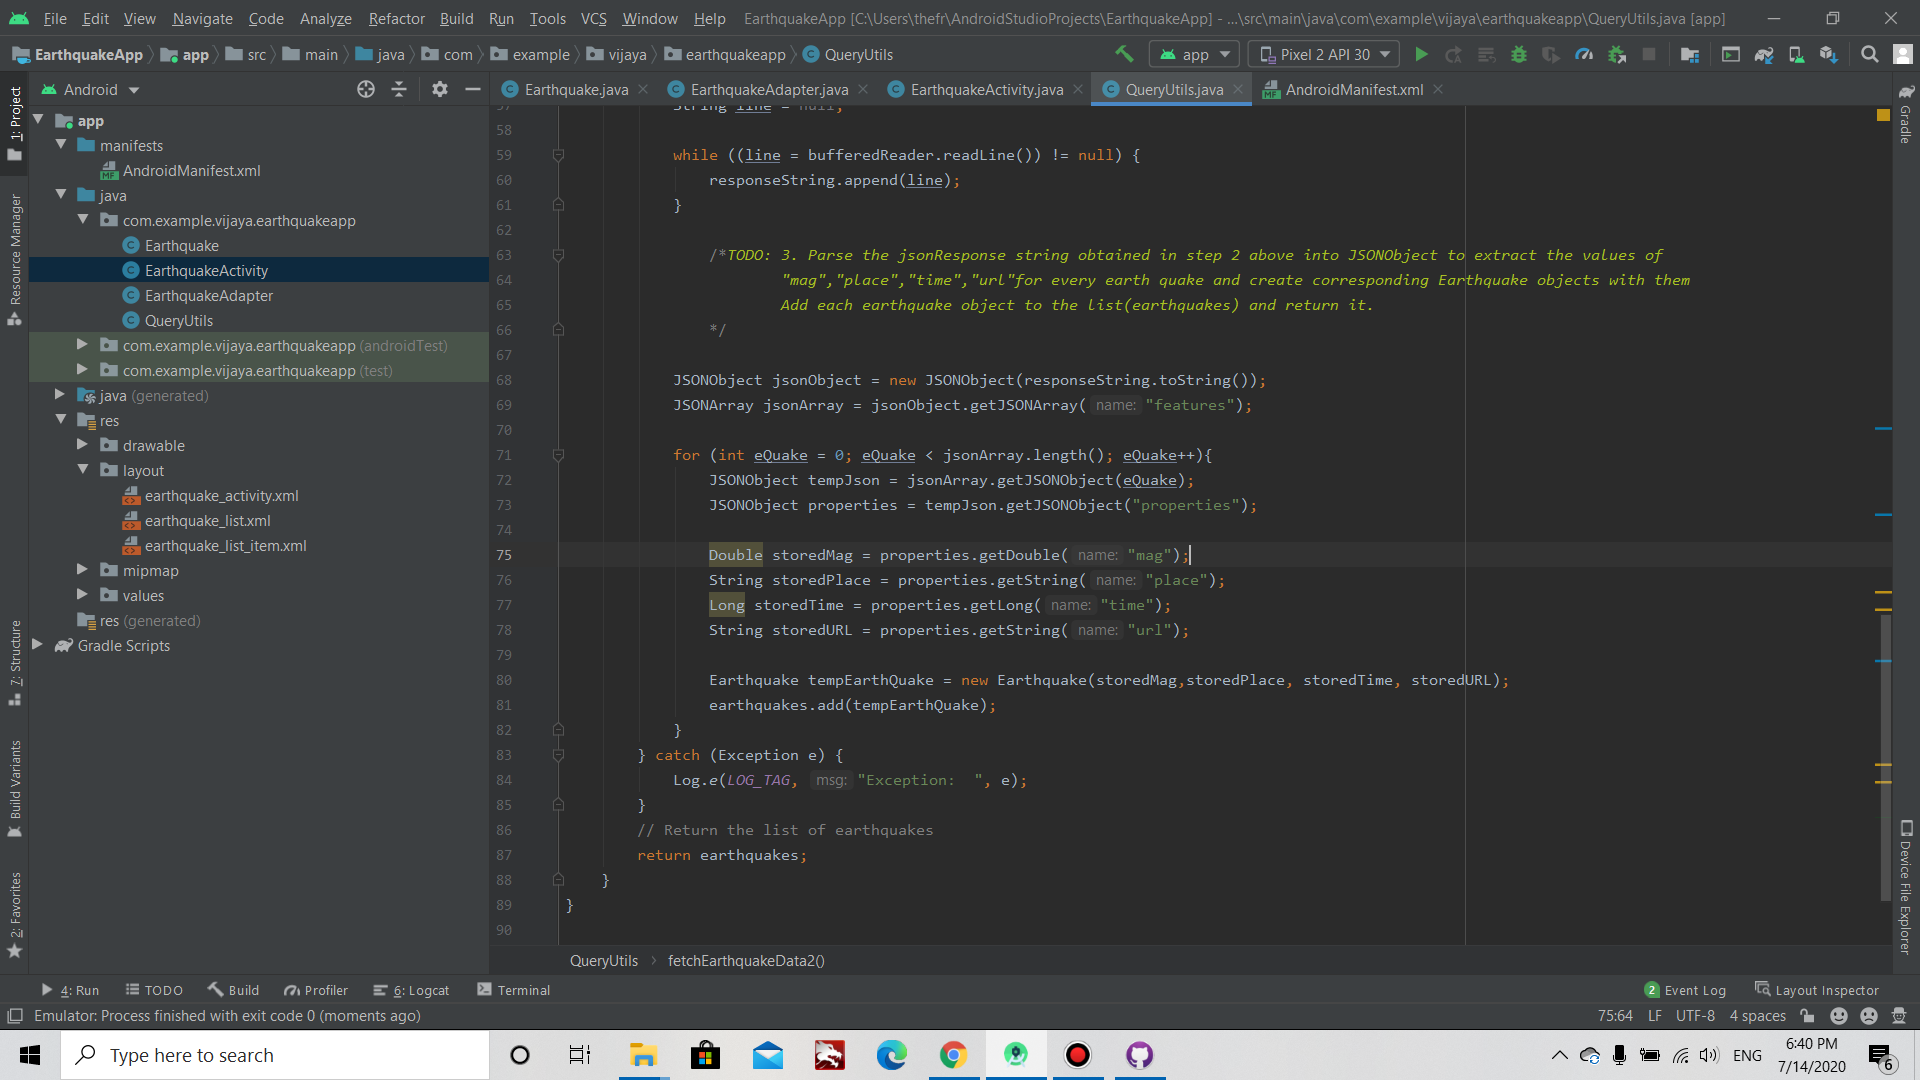
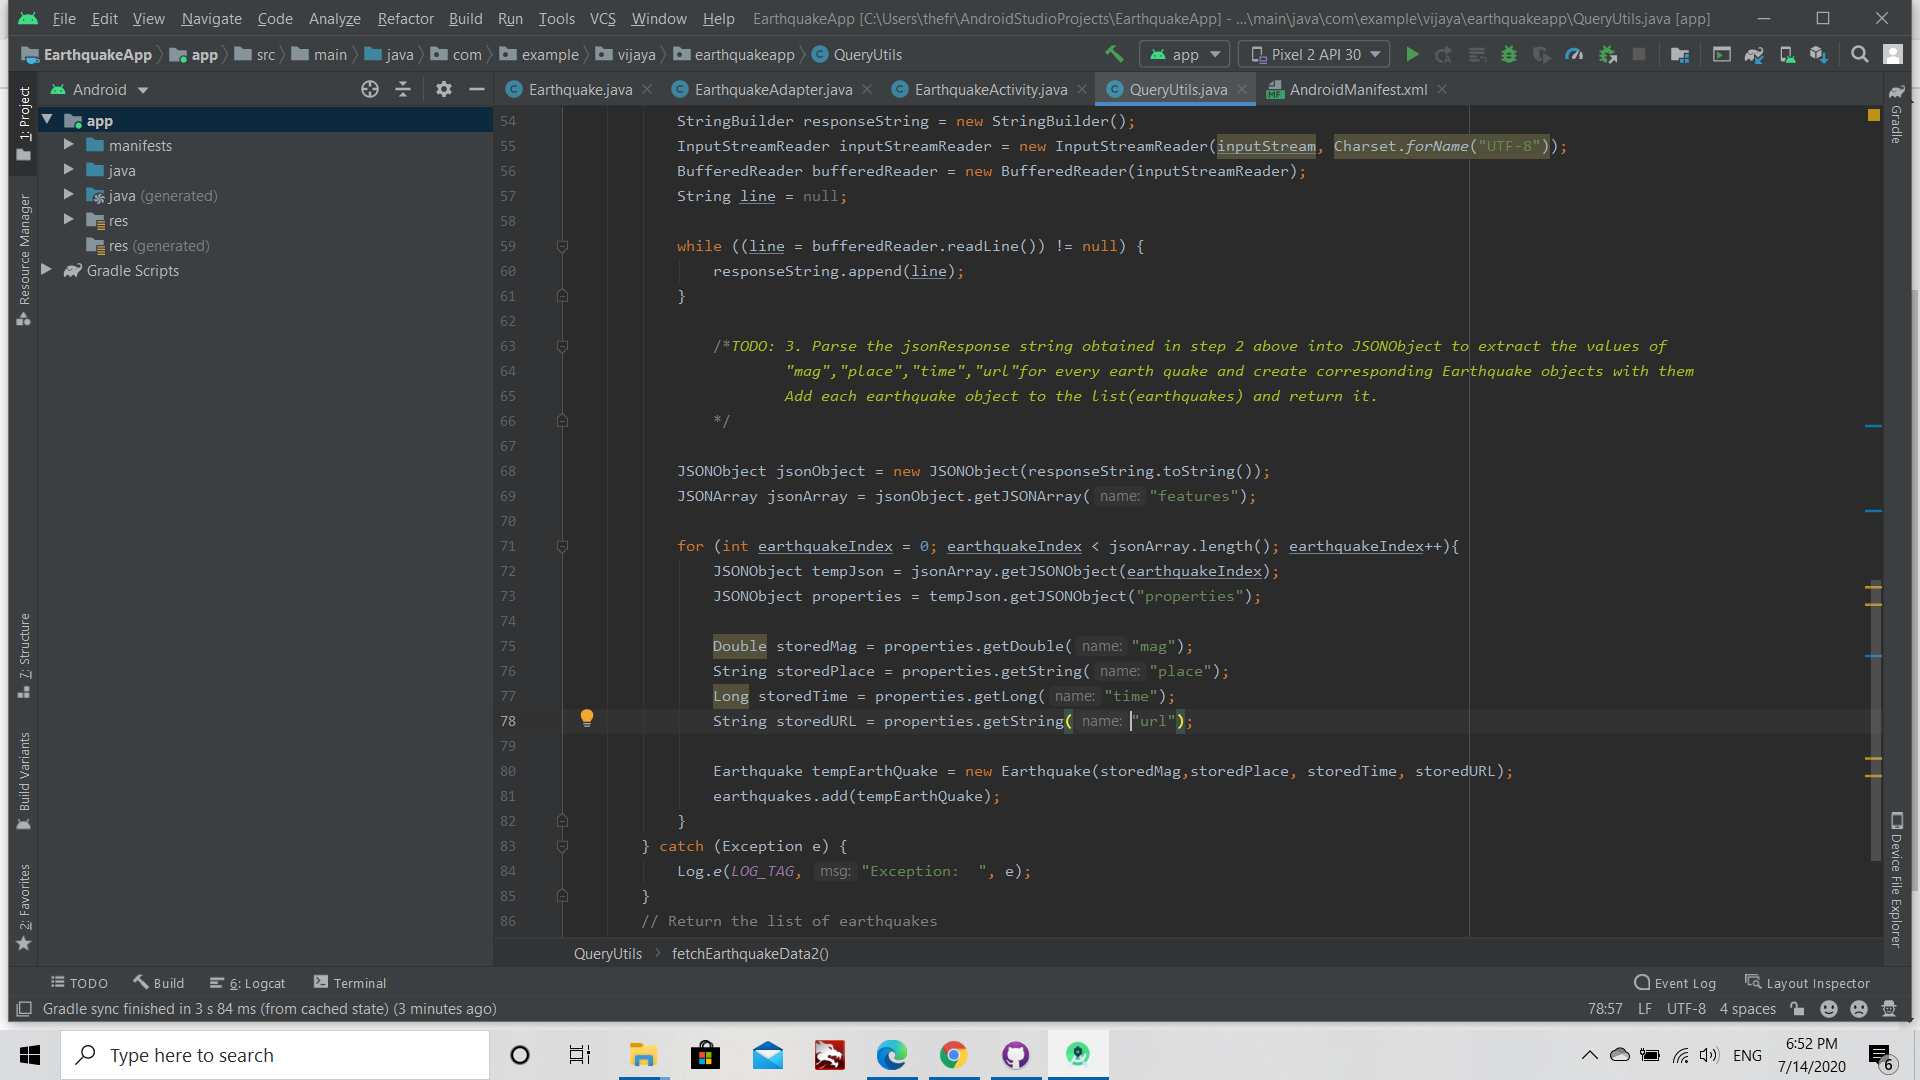
modify code

diff --git a/mobileICP3/src/main/java/com/example/vijaya/earthquakeapp/QueryUtils.java b/mobileICP3/src/main/java/com/example/vijaya/earthquakeapp/QueryUtils.java
@@ -68,8 +68,8 @@ public class QueryUtils {
             JSONObject jsonObject = new JSONObject(responseString.toString());
             JSONArray jsonArray = jsonObject.getJSONArray("features");
 
-            for (int eQuake = 0; eQuake < jsonArray.length(); eQuake++){
-                JSONObject tempJson = jsonArray.getJSONObject(eQuake);
+            for (int earthquakeIndex = 0; earthquakeIndex < jsonArray.length(); earthquakeIndex++){
+                JSONObject tempJson = jsonArray.getJSONObject(earthquakeIndex);
                 JSONObject properties = tempJson.getJSONObject("properties");
 
                 Double storedMag = properties.getDouble("mag");
